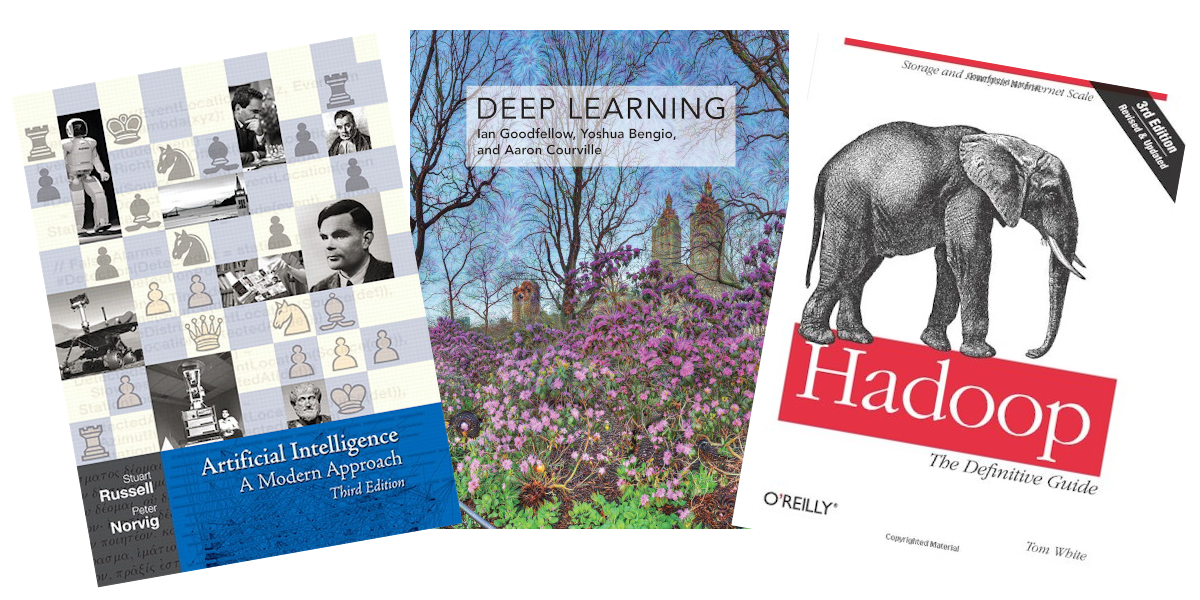
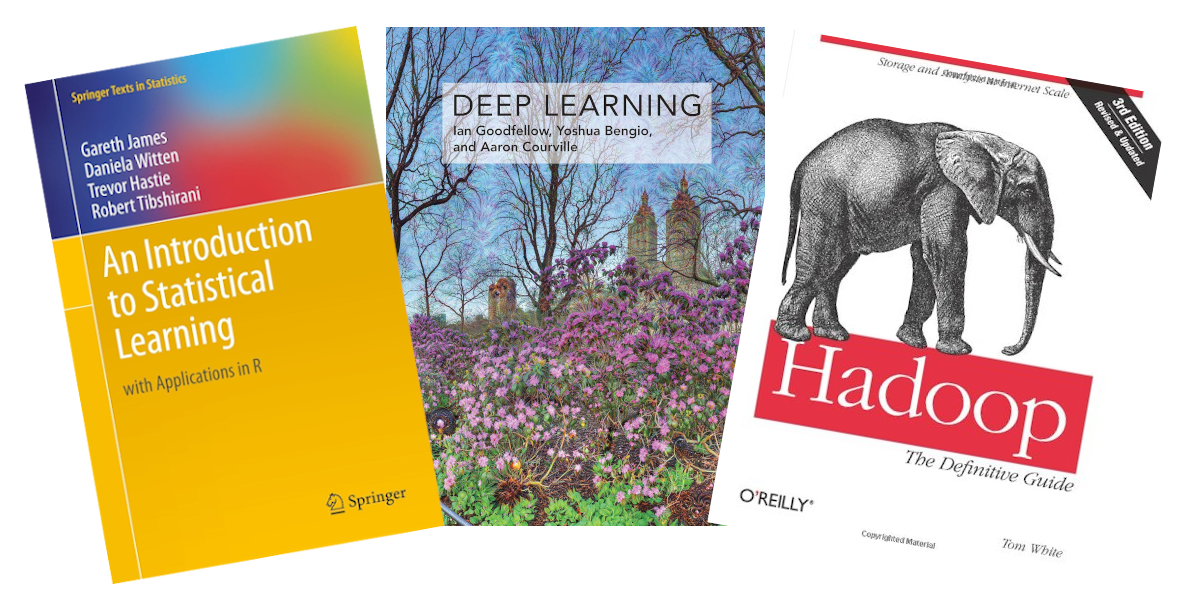
Change image

diff --git a/content/posts/2020-09-22-livros-gratuitos.md b/content/posts/2020-09-22-livros-gratuitos.md
@@ -50,8 +50,6 @@ Vai ser difícil arrumar tempo parar ler tudo isso até o natal.
 
 [Natural Language Processing with Python](http://www.nltk.org/book_1ed/)
 
-~~[Artificial Intelligence – A Modern Approach](http://aima.cs.berkeley.edu/)~~ – Removido
-
 [Python Machine Learning By Example](https://www.packtpub.com/free-ebooks/big-data-and-business-intelligence/python-machine-learning-example/9781783553112)
 
 [Introduction to Machine Learning](http://arxiv.org/pdf/0904.3664.pdf)
